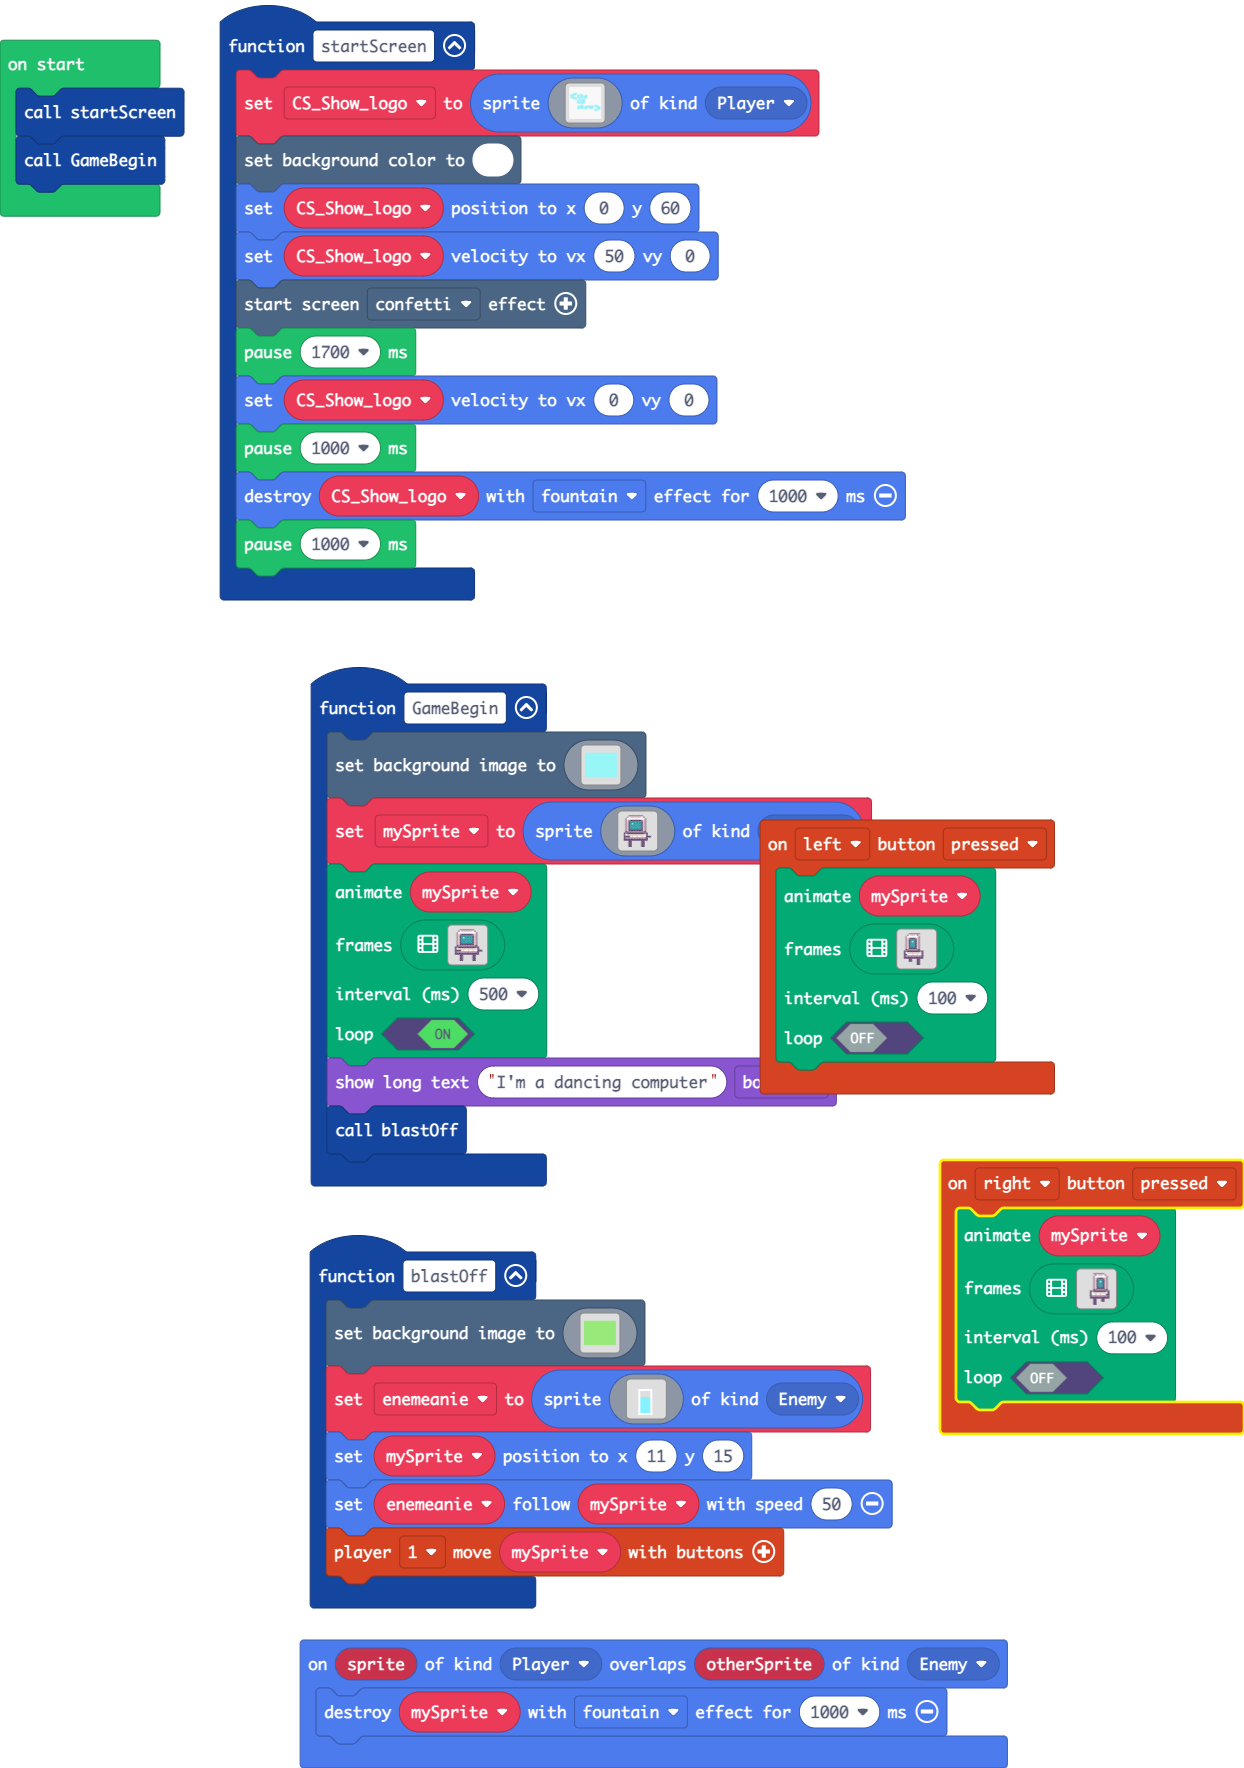
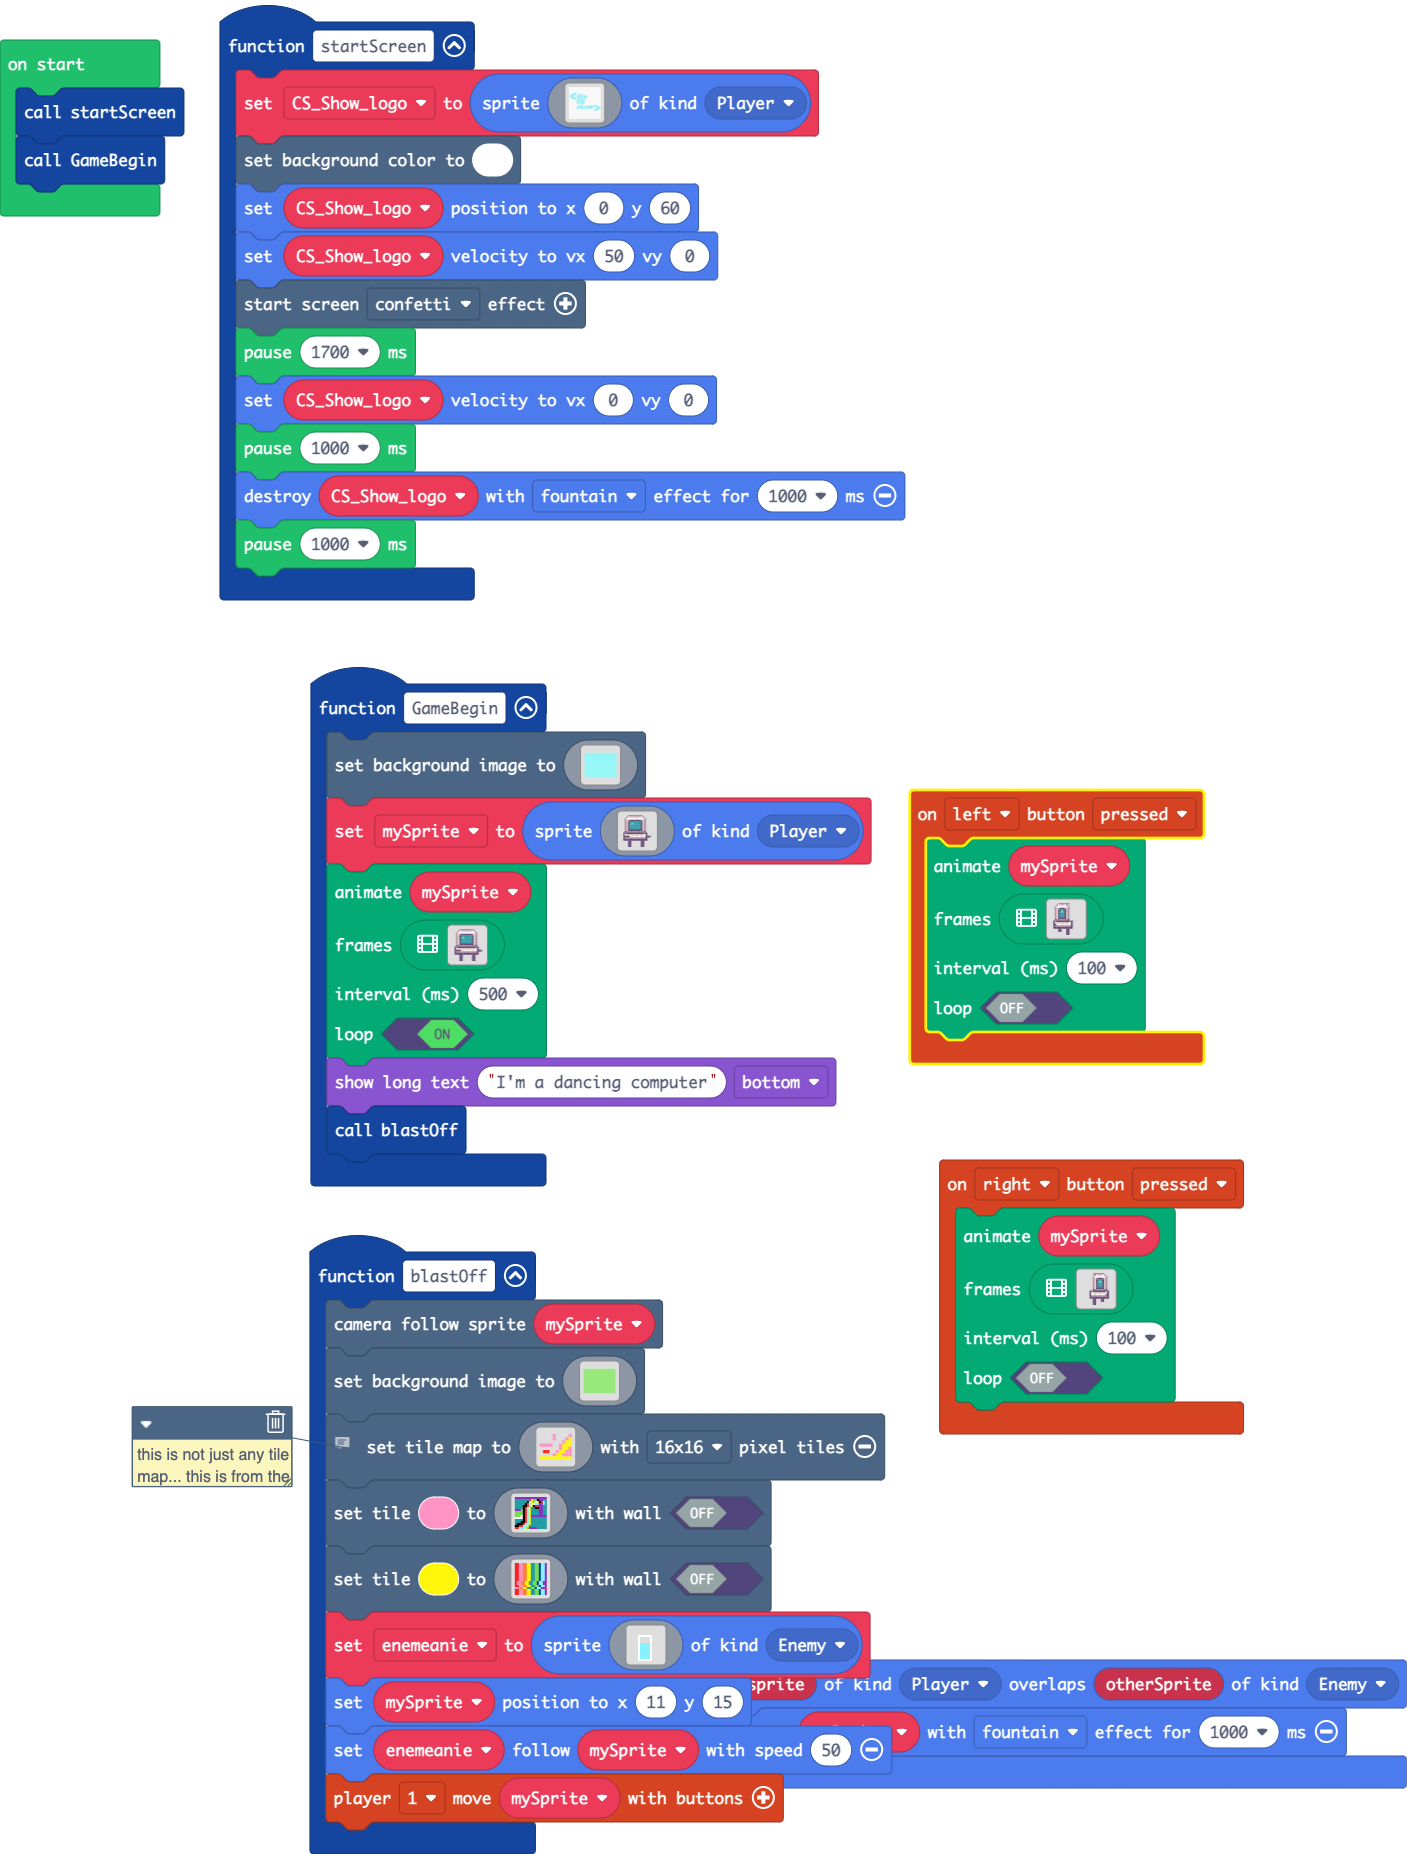
Update pxt.json, main.blocks, main.ts, tilemap.g.jres, tilemap.g.ts

diff --git a/main.ts b/main.ts
@@ -176,6 +176,7 @@ controller.right.onEvent(ControllerButtonEvent.Pressed, function () {
     )
 })
 function blastOff () {
+    scene.cameraFollowSprite(mySprite)
     scene.setBackgroundImage(img`
         7777777777777777777777777777777777777777777777777777777777777777777777777777777777777777777777777777777777777777777777777777777777777777777777777777777777777777
         7777777777777777777777777777777777777777777777777777777777777777777777777777777777777777777777777777777777777777777777777777777777777777777777777777777777777777
@@ -298,6 +299,54 @@ function blastOff () {
         7777777777777777777777777777777777777777777777777777777777777777777777777777777777777777777777777777777777777777777777777777777777777777777777777777777777777777
         7777777777777777777777777777777777777777777777777777777777777777777777777777777777777777777777777777777777777777777777777777777777777777777777777777777777777777
         `)
+    // this is not just any tile map... this is from the color code tilemap extension
+    // 
+    scene.setTileMap(img`
+        . . . . 3 . . . . 3 
+        . . . . 3 . . . 3 5 
+        . . . . . . . 3 5 5 
+        3 3 3 3 . . 3 5 5 5 
+        . . . . . . 3 5 5 3 
+        . 2 2 . . 3 5 5 3 3 
+        . . . . 3 5 5 3 3 3 
+        5 5 5 5 5 5 5 5 5 5 
+        `, TileScale.Sixteen)
+    scene.setTile(3, img`
+        a a a a a a a a a a a a a a a a 
+        6 6 6 6 6 6 6 2 5 7 7 f a a 6 6 
+        6 6 6 6 6 6 f 9 5 7 1 5 f 2 9 6 
+        6 6 6 6 6 f 2 9 5 1 9 9 a a 9 6 
+        6 6 6 6 f f 2 9 5 f 2 2 a a 6 6 
+        6 6 6 6 f 2 9 5 6 6 f f a a 6 6 
+        a a a 7 f 2 9 5 6 6 6 6 a a 6 6 
+        7 7 7 7 f 2 9 5 6 6 6 6 a a 6 6 
+        7 7 7 7 f 2 9 5 6 6 6 6 a a 6 6 
+        7 7 7 1 f 2 9 5 a a a a a a a a 
+        1 1 1 1 f 2 9 5 6 6 6 6 6 6 6 6 
+        6 6 6 6 f 2 9 5 6 6 6 6 6 6 6 6 
+        6 6 6 f f 2 9 5 6 6 6 6 6 6 6 6 
+        6 f f f 2 9 9 5 6 6 6 6 6 6 6 6 
+        f f 2 2 9 9 5 6 6 6 6 6 6 6 6 6 
+        2 2 9 9 9 5 7 a a a a 6 6 6 6 6 
+        `, false)
+    scene.setTile(5, img`
+        2 2 3 3 4 4 5 5 6 6 7 7 8 9 9 a 
+        2 2 3 3 4 4 5 5 6 6 7 7 8 9 9 a 
+        2 2 3 3 4 4 5 5 6 6 7 7 8 9 9 a 
+        2 2 3 3 4 4 5 5 6 6 7 7 8 9 9 a 
+        2 2 3 3 4 4 5 5 6 6 7 7 8 9 9 a 
+        2 2 3 3 4 4 5 5 6 6 7 7 8 9 9 a 
+        2 2 3 3 4 4 5 5 6 6 7 7 8 9 9 a 
+        2 2 3 3 4 4 5 5 6 6 7 7 8 9 9 a 
+        2 2 3 3 4 4 5 5 6 6 7 7 8 9 9 a 
+        2 3 3 4 4 5 5 6 6 7 7 8 9 9 a a 
+        2 3 3 4 4 5 5 6 6 7 7 8 9 9 a a 
+        2 2 3 3 4 4 5 5 6 6 7 7 8 9 9 a 
+        3 3 4 4 5 5 6 6 7 7 8 9 9 a a 2 
+        2 2 3 3 4 4 5 5 6 6 7 7 8 9 9 a 
+        2 2 3 3 4 4 5 5 6 6 7 7 8 9 9 a 
+        2 2 3 3 4 4 5 5 6 6 7 7 8 9 9 a 
+        `, false)
     enemeanie = sprites.create(assets.image`glassOfH2O`, SpriteKind.Enemy)
     mySprite.setPosition(11, 15)
     enemeanie.follow(mySprite, 50)

diff --git a/tilemap.g.ts b/tilemap.g.ts
@@ -3,6 +3,31 @@ namespace myTiles {
     //% fixedInstance jres blockIdentity=images._tile
     export const transparency16 = image.ofBuffer(hex``);
 
+    helpers._registerFactory("tilemap", function(name: string) {
+        switch(helpers.stringTrim(name)) {
+            case "level1":
+            case "level1":return tiles.createTilemap(hex`1000100000000000000000000000000000000000000000000000000000000000000000000000000000000000000000000000000000000000000000000000000000000000000000000000000000000000000000000000000000000000000000000000000000000000000000000000000000000000000000000000000000000000000000000000000000000000000000000000000000000000000000000000000000000000000000000000000000000000000000000000000000000000000000000000000000000000000000000000000000000000000000000000000000000000000000000000000000000000000000000000000000000000000000000000000000000000`, img`
+. . . . . . . . . . . . . . . . 
+. . . . . . . . . . . . . . . . 
+2 2 2 2 2 2 . . . . . . . . . . 
+. . . . . . . . . . . . . . . . 
+. . . . . . . . . . . . . . . . 
+. . . . . . . . . . . . . . . . 
+. . . . . . . . . . . . . . . . 
+. . . . . . . . . . . . . . . . 
+. . . . . . . . . . . . . . . . 
+. . . . . . . . . . . . . . . . 
+. . . . . . . . . . . . . . . . 
+. . . . . . . . . . . . . . . . 
+. . . . . . . . . . . . . . . . 
+. . . . . . . . . . . . . . . . 
+. . . . . . . . . . . . . . . . 
+. . . . . . . . . . . . . . . . 
+`, [myTiles.transparency16], TileScale.Sixteen);
+        }
+        return null;
+    })
+
     helpers._registerFactory("tile", function(name: string) {
         switch(helpers.stringTrim(name)) {
             case "transparency16":return transparency16;
